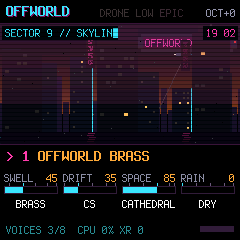
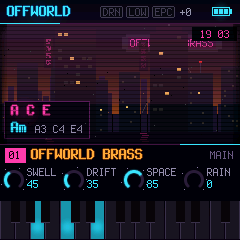
OFFWORLD 0.5: new screenshot (facelift, notes, power cell), card text
Claude-Session: https://claude.ai/code/session_019gwqiM3okTJsKeSLURMcKP

diff --git a/index.html b/index.html
@@ -679,7 +679,7 @@
       <div class="shot"><img src="img/offworld.png" alt="OFFWORLD screen" loading="lazy"></div>
       <div class="body">
         <h3>OFFWORLD<span class="vers"><span class="ver" data-ver>v0.4.3</span></span></h3>
-        <p>Drone synth for 80s sci-fi: colossal brass, a reverb that rings for 30 seconds or forever.</p>
+        <p>Drone synth for 80s sci-fi: colossal brass, a reverb that rings for 30 seconds or forever. Now with the notes and chords on screen and a power cell.</p>
         <div class="actions">
           <a class="btn solid" href="https://thefirmwarehub.com/#fw-offworld" target="_blank" rel="noopener" title="Install it straight from your browser via The Firmware Hub">⚡ Install</a>
           <a class="btn ghost" data-dl href="https://github.com/swtdr34mz-afk/OFFWORLD/releases/latest" target="_blank" rel="noopener">Download</a>
